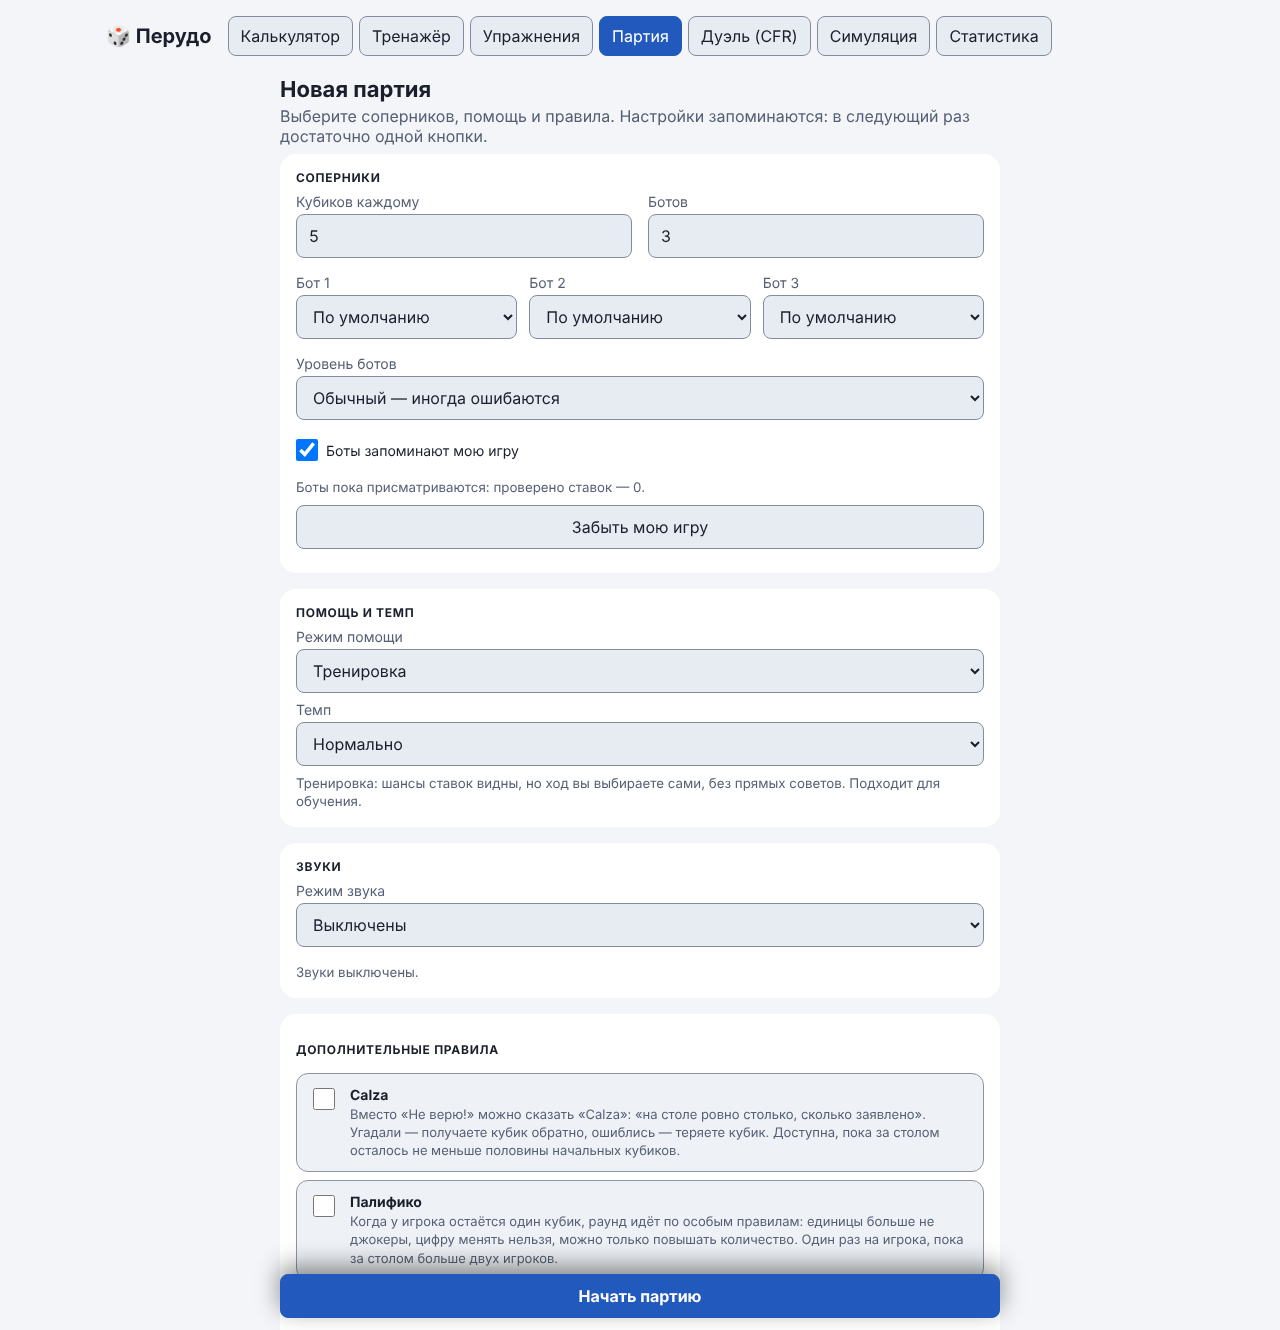
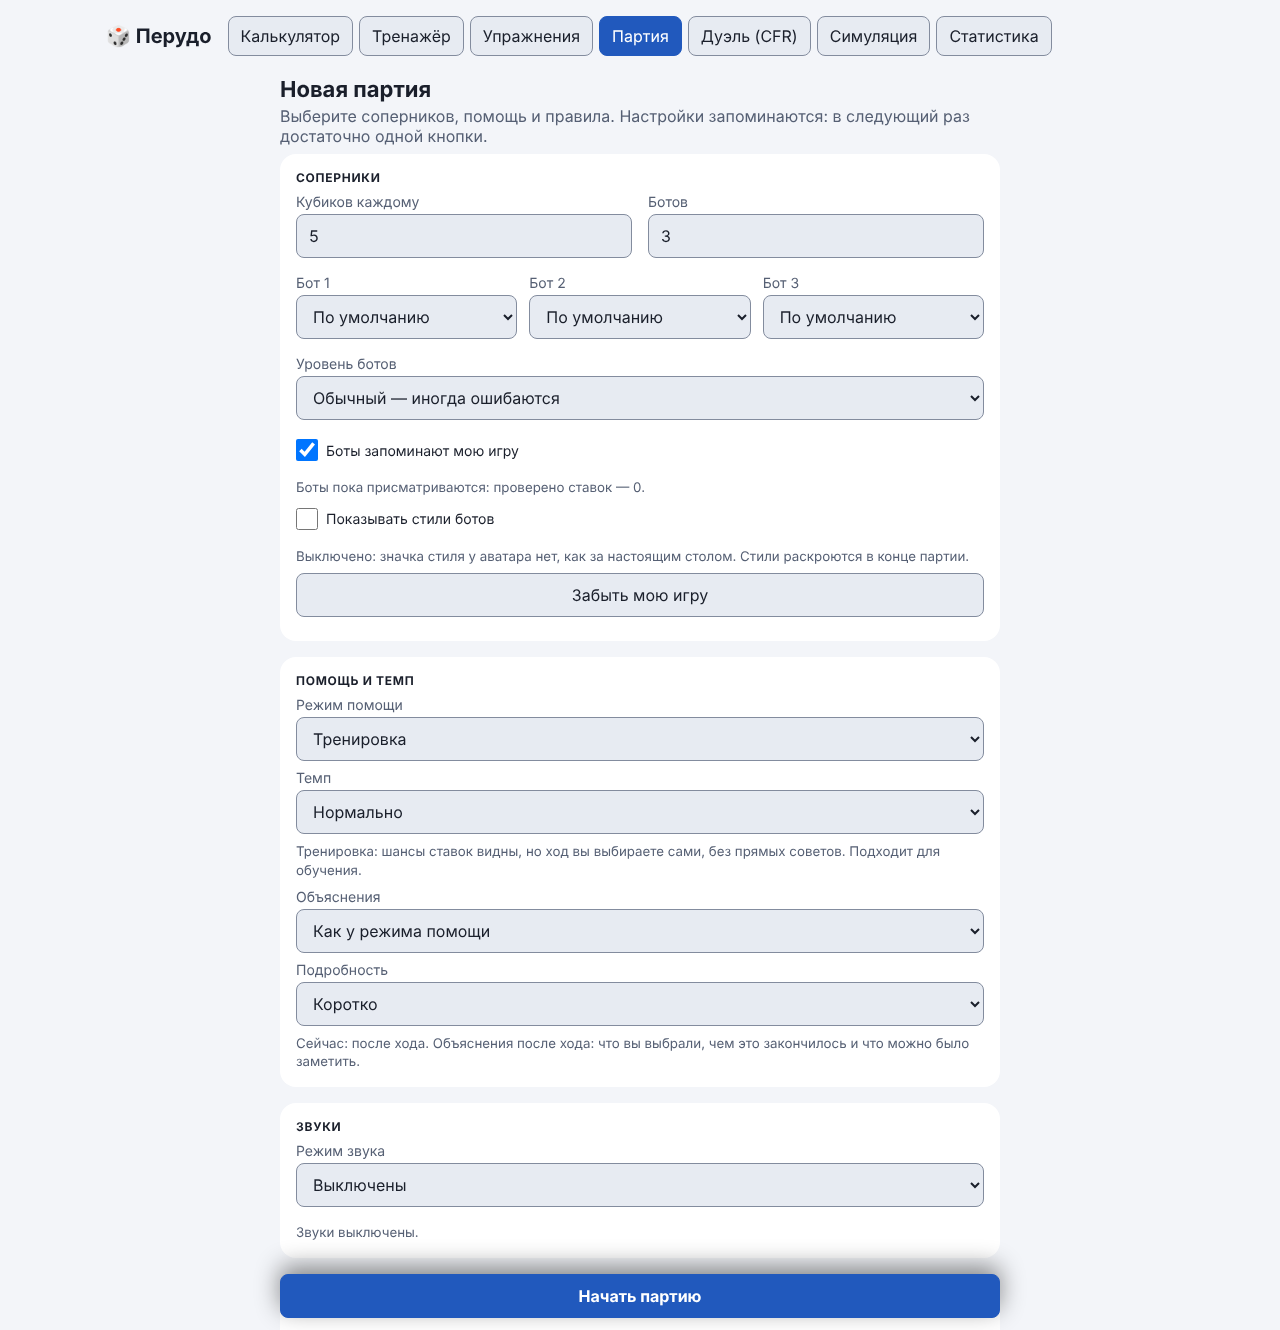
Скриншоты для руководства: вкладка «Стол», «Картина партии», новые настройки
В скрипт снимков добавлены две сцены (вкладка «Стол» и итог с раскрытой
картиной партии), они показаны на странице «Объяснения и чтение стола».
Четыре снимка настроек пересозданы: в них появились «Объяснения» и
«Подробность». Исправлено: если в итоге были только стили ботов, заголовок
«Стили ботов в этой партии» выводился дважды.

Changed region(s): [[0.2188, 0.4624, 0.75, 0.9556], [0.2188, 0.3699, 0.75, 0.4624]]

diff --git a/docs/guide/table-reading.html b/docs/guide/table-reading.html
@@ -47,6 +47,11 @@
     </ul>
     <p>Доли показываются, когда вскрыто хотя бы 5 ставок. До этого видны только счётчики и пометка «Пока мало данных». Это наблюдения, а не приговор манере игры: выводы из них остаются вашим предположением. Вкладка скрыта в режиме «Игра» и при выключенных объяснениях.</p>
 
+    <figure>
+      <img src="../img/table-tab-desktop.png" alt="Вкладка «Стол» в партии: наблюдения по каждому сопернику и пометка «Пока мало данных»" loading="lazy">
+      <figcaption>Вкладка «Стол»: пока вскрыто меньше пяти ставок, видны только счётчики.</figcaption>
+    </figure>
+
     <h2>Картина партии</h2>
     <p>После партии в карточке итога появляется свёрнутый блок <strong>«Картина партии»</strong>. В нём:</p>
     <ul>
@@ -54,6 +59,11 @@
       <li>до трёх фактов по вскрытым раундам: в скольких вскрытиях вы потеряли кубик, какой раунд сильнее всего уменьшил вашу долю, у кого чаще всего было больше всех кубиков.</li>
     </ul>
     <p>Если в настройках стили ботов были скрыты, после партии блок называется <strong>«Стили ботов в этой партии»</strong> и раскрывает, кто каким был. Это работает даже при выключенных объяснениях и в режиме «Игра»; графика в них нет.</p>
+
+    <figure>
+      <img src="../img/game-picture-desktop.png" alt="Итог партии: блок «Картина партии» с графиком числа кубиков, фактами и стилями ботов" loading="lazy">
+      <figcaption>Итог партии: график кубиков по раундам, факты и раскрытые стили ботов.</figcaption>
+    </figure>
 
     <h2>Упражнение «Читай вскрытие»</h2>
     <p>В разделе <a href="drill.html">«Упражнения»</a> есть третья вкладка <strong>«Читай вскрытие»</strong>. Вам показывают ваши кубики и ставки раунда по порядку, а затем до трёх вопросов: была ли у автора ставки нужная цифра в руке. Ответ — «Цифра в руке есть» или «Цифры в руке нет», единицы-джокеры учитываются. После проверки видны руки при вскрытии и разбор каждого ответа.</p>

diff --git a/src/app_v2.js b/src/app_v2.js
@@ -454,7 +454,9 @@ function gamePictureHtml() {
   if (stylesHidden) {
     const rows = game.players.filter((p) => p.isBot && BOT_STYLES[p.style])
       .map((p) => `<li>${escapeHtml(p.name)} — ${BOT_STYLES[p.style].icon} ${escapeHtml(BOT_STYLES[p.style].name)}</li>`).join('');
-    if (rows) inner += `<div class="styles-reveal"><b>Стили ботов в этой партии</b><ul class="picture-lines">${rows}</ul></div>`;
+    // если блок состоит только из стилей, заголовок уже стоит в summary
+    const head = inner ? '<b>Стили ботов в этой партии</b>' : '';
+    if (rows) inner += `<div class="styles-reveal">${head}<ul class="picture-lines">${rows}</ul></div>`;
   }
   // свёрнуто, как «Ключевые моменты»: итог остаётся компактным и помещается в экран
   return inner ? `<details class="game-picture"><summary>${title}</summary>${inner}</details>` : '';

diff --git a/tests/e2e/table.spec.js b/tests/e2e/table.spec.js
@@ -647,6 +647,7 @@ test.describe('Покерный стол в партии', () => {
     await finishQuickGame(page, { assist: 'novice', explain: 'off' });
     await expect(page.locator('#gResultCard .game-picture')).toHaveCount(1);
     await expect(page.locator('#gResultCard .game-picture summary')).toHaveText('Стили ботов в этой партии');
+    await expect(page.locator('#gResultCard .styles-reveal b')).toHaveCount(0);   // заголовок уже в summary, без повтора
     await expect(page.locator('#gResultCard .dice-chart')).toHaveCount(0);
     await expect(page.locator('#gResultCard .styles-reveal li')).toHaveCount(1);
   });

diff --git a/tools/screenshots.py b/tools/screenshots.py
@@ -291,6 +291,62 @@ def scene_key_moments(page, phone):
     page.wait_for_timeout(500)
 
 
+def play_rounds(page, rounds):
+    """Играет до `rounds` раундов или до конца партии: боты с двойкой, у игрока тройка, ставка 1×2, затем «Не верю!»."""
+    for _ in range(rounds):
+        if page.evaluate("document.querySelector('#gResultDialog[open]') !== null || window.__perudo_v2.game.over === true"):
+            break
+        wait_my_turn(page)
+        # руки по числу кубиков: раунд с рукой другой длины не записывается
+        page.evaluate("() => { const g = window.__perudo_v2.game;"
+                      " g.players.forEach((p, i) => { p.hand = Array(p.hand.length).fill(i === 0 ? 3 : 2); }); }")
+        if page.evaluate("window.__perudo_v2.game.bid === null"):
+            raise_bid(page, 1, 2)
+            page.wait_for_function(
+                "(() => { const g = window.__perudo_v2.game; const s = document.querySelector('#gStatus')?.textContent || '';"
+                " return (s.includes('Ваш ход') && g?.bid && g.bid.playerId !== 'human')"
+                " || document.querySelector('#gResultDialog[open]') !== null; })()", timeout=15000)
+        if page.evaluate("document.querySelector('#gResultDialog[open]') !== null"):
+            break
+        page.locator("#gDudo").click()
+        page.wait_for_timeout(900)
+        if page.locator("#gResultDialog[open]").count():
+            break
+        page.keyboard.press("Escape")
+        page.wait_for_timeout(300)
+
+
+def new_explained_game(page, bots, dice):
+    """Партия с объяснениями «До и после хода» и скрытыми стилями."""
+    open_tab(page, "game")
+    page.evaluate(
+        "([b, d]) => { document.querySelector('#gBots').value = b; document.querySelector('#gDice').value = d;"
+        " document.querySelector('#gRevealOpt').checked = false; document.querySelector('#gShowStylesOpt').checked = false;"
+        " const a = document.querySelector('#gAssist'); if (a) { a.value = 'novice'; a.dispatchEvent(new Event('change', {bubbles: true})); }"
+        " window.__perudo_v2.startNewGame(); }", [str(bots), str(dice)])
+    page.wait_for_selector(".seat")
+    wait_my_turn(page)
+
+
+def scene_table_tab(page, phone):
+    new_explained_game(page, 2, 6)
+    play_rounds(page, 6)
+    page.locator("#tabOpp").click()
+    page.wait_for_timeout(500)
+
+
+def scene_game_picture(page, phone):
+    new_explained_game(page, 1, 2)
+    play_rounds(page, 6)
+    page.wait_for_function("document.querySelector('#gResultCard') && !document.querySelector('#gResultCard').hidden", timeout=15000)
+    if page.locator("#gResultDialog[open]").count():
+        page.keyboard.press("Escape")
+        page.wait_for_timeout(400)
+    page.evaluate("document.querySelector('#gResultCard .game-picture').open = true")
+    page.evaluate("document.querySelector('#gResultCard .game-picture').scrollIntoView({block: 'start'})")
+    page.wait_for_timeout(500)
+
+
 def scene_reveal(page, phone):
     new_game(page, 3, 5, reveal=True)
     rig_bots(page, [2, 2, 2, 2, 2])
@@ -336,6 +392,8 @@ SHOTS = [
     ("key-moments-desktop", DESKTOP, 1, scene_key_moments),
     ("key-moments-phone", PHONE, 2, scene_key_moments),
     ("reveal-phone", PHONE, 2, scene_reveal),
+    ("table-tab-desktop", DESKTOP, 1, scene_table_tab),
+    ("game-picture-desktop", DESKTOP, 1, scene_game_picture),
     ("phone-calc", PHONE, 2, scene_phone_calc),
     ("settings-dark-desktop", None, 1, scene_settings_desktop_tall, "dark"),
     ("game-dark-phone", PHONE, 2, scene_game, "dark"),

diff --git a/tests/test_screenshots.py b/tests/test_screenshots.py
@@ -54,7 +54,7 @@ class ScreenshotsTest(unittest.TestCase):
 
     def test_new_scenes_are_reproducible(self):
         """Сцены с игрой, Дуэлью и данными Статистики: два запуска дают одинаковые картинки."""
-        names = "stats-desktop,duel-phone,key-moments-desktop,reveal-phone,trainer-feedback"
+        names = "stats-desktop,duel-phone,key-moments-desktop,reveal-phone,trainer-feedback,table-tab-desktop,game-picture-desktop"
         with tempfile.TemporaryDirectory() as a, tempfile.TemporaryDirectory() as b:
             for out in (a, b):
                 self.assertEqual(shots.main(["--only", names, "--out", out]), 0)
